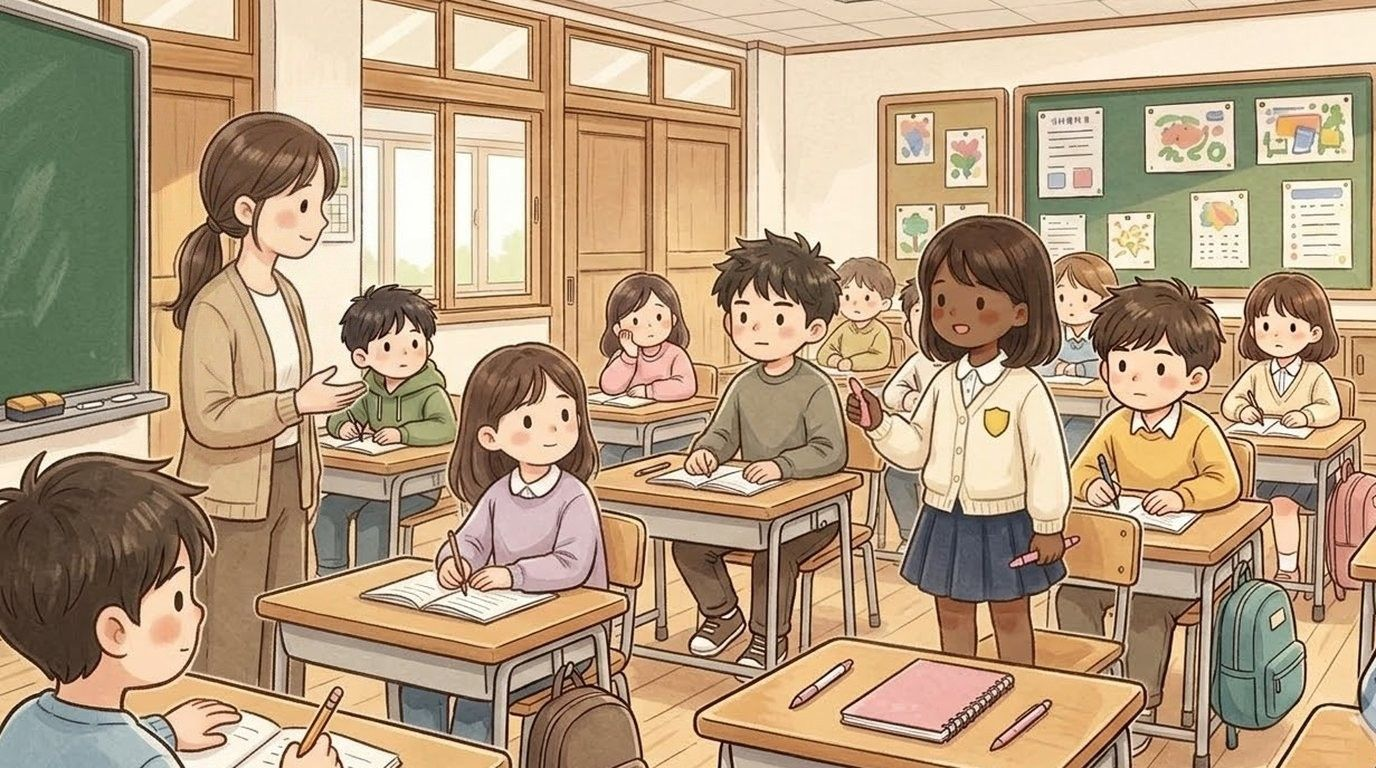
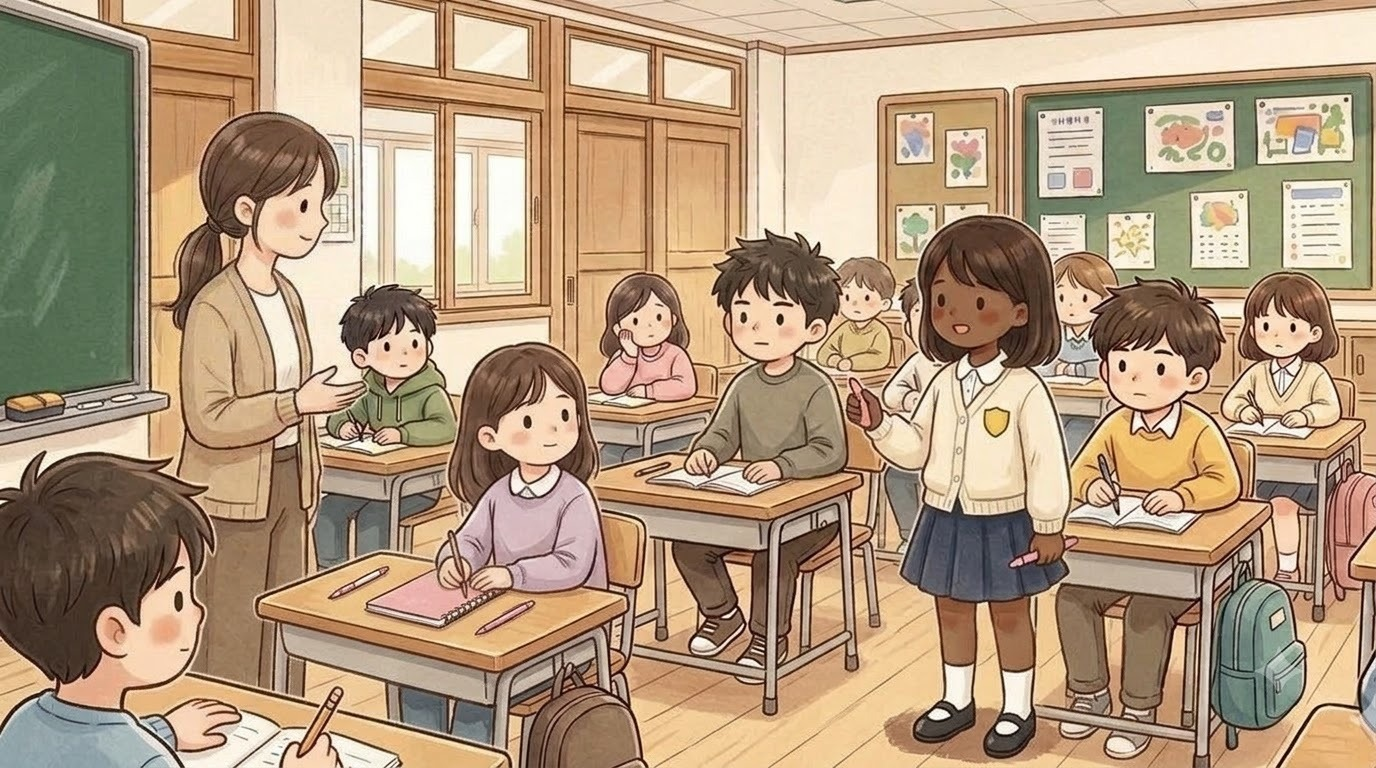
민호 4번째 만남: 수아가 바닥에 서 있도록 Flow로 다시 그린 그림

diff --git a/index.html b/index.html
@@ -119,14 +119,14 @@ body,button{word-break:keep-all;overflow-wrap:break-word}
 <div id="fader"></div>
 <script>
 // same address, newest version: if the page this phone has kept is older than the one online, fetch the new one and reopen
-const BUILD='1114170520';
+const BUILD='1114175015';
 try{fetch(location.pathname,{cache:'no-store'}).then(r=>r.text()).then(t=>{const m=t.match(/const BUILD='(\d+)'/);if(m&&m[1]!==BUILD&&sessionStorage.getItem('upd')!==m[1]){sessionStorage.setItem('upd',m[1]);fetch(location.pathname,{cache:'reload'}).then(()=>location.reload())}}).catch(()=>{})}catch(e){}
 </script>
-<script src="i18n.js?v=1114170520"></script>
-<script src="i18n_prologue_v2.js?v=1114170520"></script>
-<script src="day2/i18n_engine.js?v=1114170520"></script>
-<script src="day2/data.js?v=1114170520"></script>
-<script src="day3/data.js?v=1114170520"></script>
+<script src="i18n.js?v=1114175015"></script>
+<script src="i18n_prologue_v2.js?v=1114175015"></script>
+<script src="day2/i18n_engine.js?v=1114175015"></script>
+<script src="day2/data.js?v=1114175015"></script>
+<script src="day3/data.js?v=1114175015"></script>
 <script>
 // ---------- data ----------
 const MW=1672,MH=941,KID=180;
@@ -581,37 +581,37 @@ function pickHero(){const m=document.getElementById('modal'),c=document.getEleme
  c.innerHTML=`<h2>${tr('전학생 반장되기')}</h2><p>${tr('한국말이 아직 서툰 전학생,<br>반장 선거에 나가다.')}</p><p style="margin-top:14px">${tr('누구로 할까요?')}</p>${(()=>{const s=loadSave();return s&&s.day>=2&&s.mode===UI+'-'+LANG?`<p><button class="big" id="cont">${tr('{n}일차부터 이어 하기').replace('{n}',s.day)}</button></p>`:''})()}<div class="pick heroes"><button data-h="hero_f"><img src="faces/hero_f_smile.jpg" alt="여자 주인공">${heroName(1)}</button><button data-h="hero_m"><img src="faces/hero_m_smile.jpg" alt="남자 주인공">${heroName(0)}</button></div>`;
  m.classList.add('on');{const cb=document.getElementById('cont');if(cb)cb.onclick=()=>{const s=loadSave();HERO=s.hero;Object.assign(HEART,s.heart||{});(s.found||[]).forEach(k=>FOUND.add(k));HEART_D1={...HEART};chime();(typeof contGame==='function'?contGame(s):startDay(Math.min(s.day,Object.keys(window.D3||{}).length?3:2)))}}c.querySelectorAll('.pick button').forEach(b=>b.onclick=()=>{HERO=b.dataset.h;m.classList.remove('on');chime();bgm('day');load('home_am');say([['nar','','이사 온 다음 날 아침. 아직 풀지 못한 상자들이 쌓여 있다.'],['think','sad','(오늘부터 새 학교야. 여기 말도 아직 서툰데…….)'],['think','smile','({m}한테 인사하고 학교 가야지.)']],morning)})}
 </script>
-<script src="day2/engine.js?v=1114170520"></script>
-<script src="day2/ep_minho.js?v=1114170520"></script>
-<script src="day2/meet.js?v=1114170520"></script>
-<script src="day2/ep_sua.js?v=1114170520"></script>
-<script src="day2/ep_hangyeol.js?v=1114170520"></script>
-<script src="day2/ep_siwoo.js?v=1114170520"></script>
-<script src="day2/ep_haram.js?v=1114170520"></script>
-<script src="day2/ep_jiho.js?v=1114170520"></script>
-<script src="day2/ep_hyeeun.js?v=1114170520"></script>
-<script src="day2/ep_haneul.js?v=1114170520"></script>
-<script src="day2/ep_junho.js?v=1114170520"></script>
-<script src="day2/ep_yuna.js?v=1114170520"></script>
-<script src="day2/ep_yena.js?v=1114170520"></script>
-<script src="day2/ep_haeun.js?v=1114170520"></script>
-<script src="day2/ep_youngmin.js?v=1114170520"></script>
-<script src="day2/ep_seah.js?v=1114170520"></script>
-<script src="day2/ep_jihoon.js?v=1114170520"></script>
-<script src="words_ja_ru.js?v=1114170520"></script>
-<script src="day2/mybag.js?v=1114170520"></script>
-<script src="day2/wordpics.js?v=1114170520"></script>
-<script src="day2/spots.js?v=1114170520"></script>
-<script src="day2/textfit.js?v=1114170520"></script>
-<script src="day2/tester.js?v=1114170520"></script>
-<script src="day2/ux.js?v=1114170520"></script>
-<script src="day2/tapword.js?v=1114170520"></script>
-<script src="day2/review.js?v=1114170520"></script>
-<script src="day2/plane.js?v=1114170520"></script>
-<script src="day2/bubble.js?v=1114170520"></script>
-<script src="day2/ep_ending.js?v=1114170520"></script>
-<script src="day2/ending.js?v=1114170520"></script>
-<script src="day2/stats.js?v=1114170520"></script>
+<script src="day2/engine.js?v=1114175015"></script>
+<script src="day2/ep_minho.js?v=1114175015"></script>
+<script src="day2/meet.js?v=1114175015"></script>
+<script src="day2/ep_sua.js?v=1114175015"></script>
+<script src="day2/ep_hangyeol.js?v=1114175015"></script>
+<script src="day2/ep_siwoo.js?v=1114175015"></script>
+<script src="day2/ep_haram.js?v=1114175015"></script>
+<script src="day2/ep_jiho.js?v=1114175015"></script>
+<script src="day2/ep_hyeeun.js?v=1114175015"></script>
+<script src="day2/ep_haneul.js?v=1114175015"></script>
+<script src="day2/ep_junho.js?v=1114175015"></script>
+<script src="day2/ep_yuna.js?v=1114175015"></script>
+<script src="day2/ep_yena.js?v=1114175015"></script>
+<script src="day2/ep_haeun.js?v=1114175015"></script>
+<script src="day2/ep_youngmin.js?v=1114175015"></script>
+<script src="day2/ep_seah.js?v=1114175015"></script>
+<script src="day2/ep_jihoon.js?v=1114175015"></script>
+<script src="words_ja_ru.js?v=1114175015"></script>
+<script src="day2/mybag.js?v=1114175015"></script>
+<script src="day2/wordpics.js?v=1114175015"></script>
+<script src="day2/spots.js?v=1114175015"></script>
+<script src="day2/textfit.js?v=1114175015"></script>
+<script src="day2/tester.js?v=1114175015"></script>
+<script src="day2/ux.js?v=1114175015"></script>
+<script src="day2/tapword.js?v=1114175015"></script>
+<script src="day2/review.js?v=1114175015"></script>
+<script src="day2/plane.js?v=1114175015"></script>
+<script src="day2/bubble.js?v=1114175015"></script>
+<script src="day2/ep_ending.js?v=1114175015"></script>
+<script src="day2/ending.js?v=1114175015"></script>
+<script src="day2/stats.js?v=1114175015"></script>
 <script>
 // the goal shows big for a few seconds, then folds into a small pill (tap it to open it again)
 {const g=document.getElementById('goal');let t=null;const big=()=>{g.classList.remove('mini');clearTimeout(t);t=setTimeout(()=>g.classList.add('mini'),4000)};
